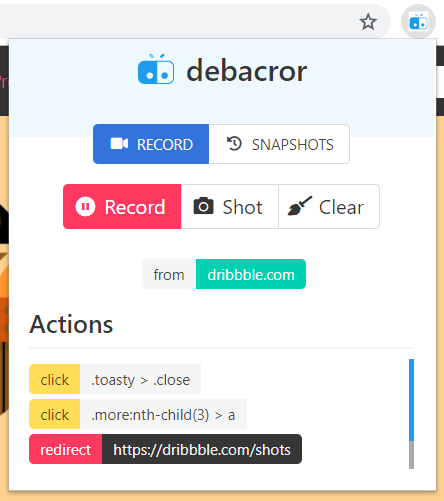
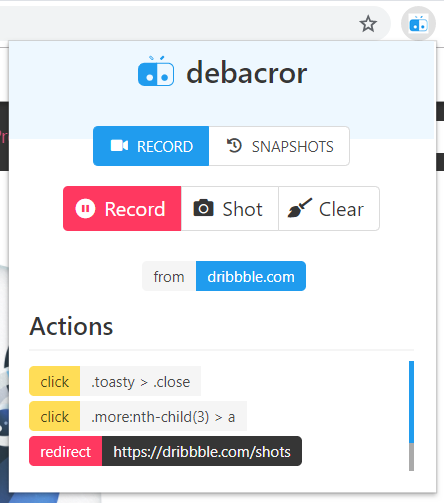
- update cover page

diff --git a/src/popup/style/base.scss b/src/popup/style/base.scss
@@ -3,11 +3,16 @@
 $primary: $cyan;
 $link: $primary;
 $colors: (
-  'primary': (
-    $primary,
-    $primary-invert,
-  ),
-  'link': ($cyan, $cyan-invert)
+  "link": ($cyan, $cyan-invert),
+  "white": ($white, $black),
+  "black": ($black, $white),
+  "light": ($light, $light-invert),
+  "dark": ($dark, $dark-invert),
+  "primary": ($primary, $primary-invert),
+  "info": ($info, $info-invert),
+  "success": ($success, $success-invert),
+  "warning": ($warning, $warning-invert),
+  "danger": ($danger, $danger-invert),
 );
 @import '~bulma';
 @import '~buefy/src/scss/buefy';

diff --git a/src/popup/components/app.jsx b/src/popup/components/app.jsx
@@ -81,7 +81,6 @@ export default class App {
 
   async updateView() {
     this.actions = await this.fetchActions();
-    console.log(this.actions);
   }
 
   startRecord() {
